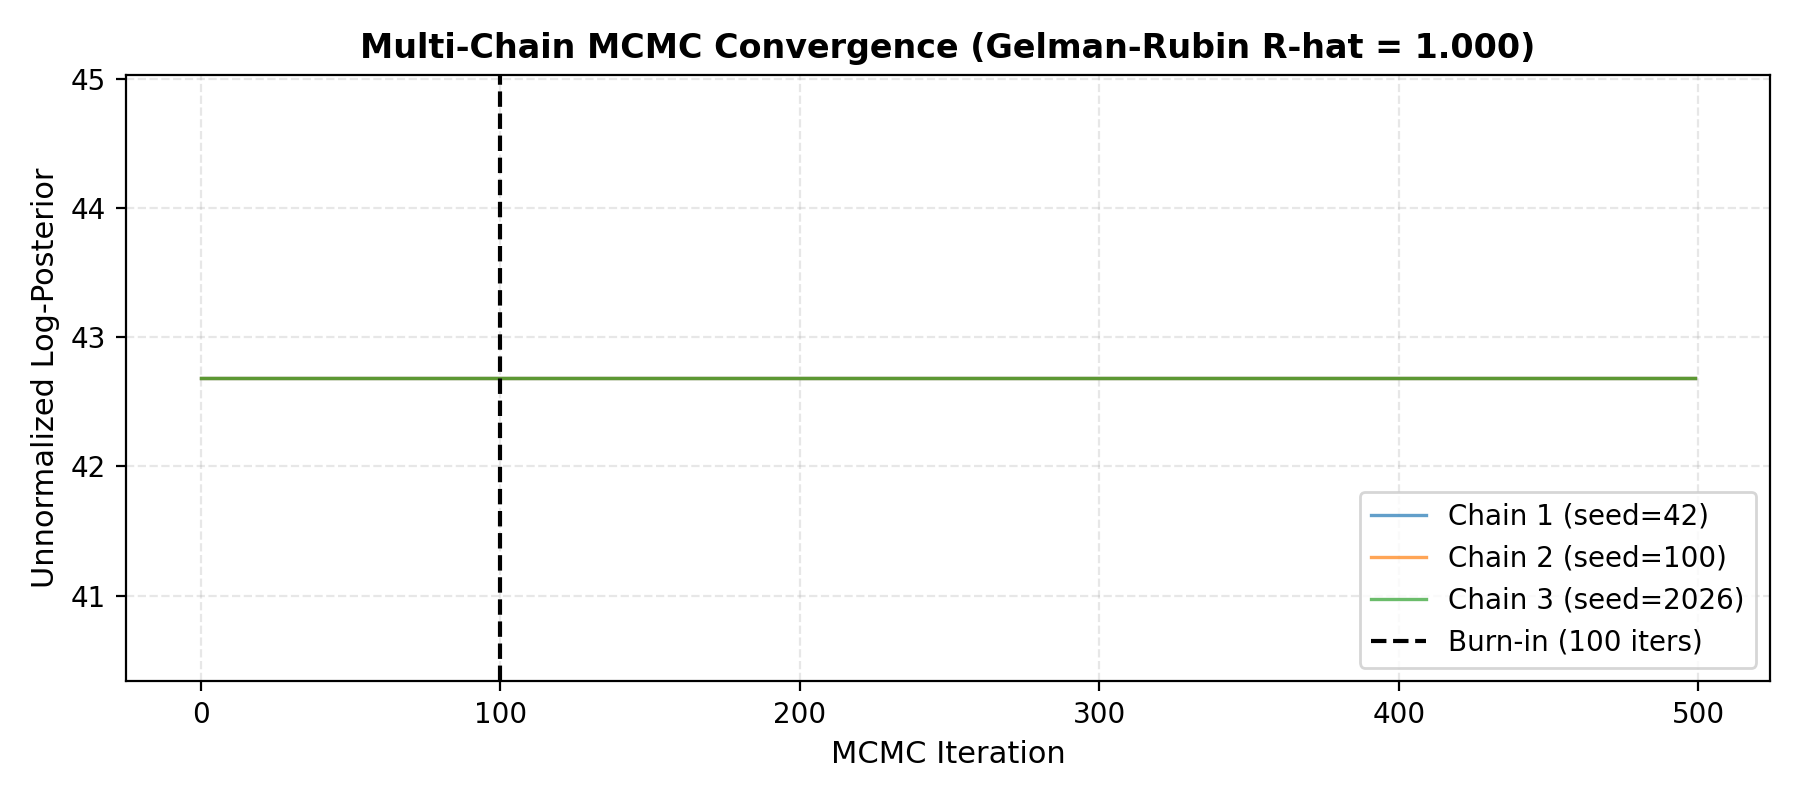
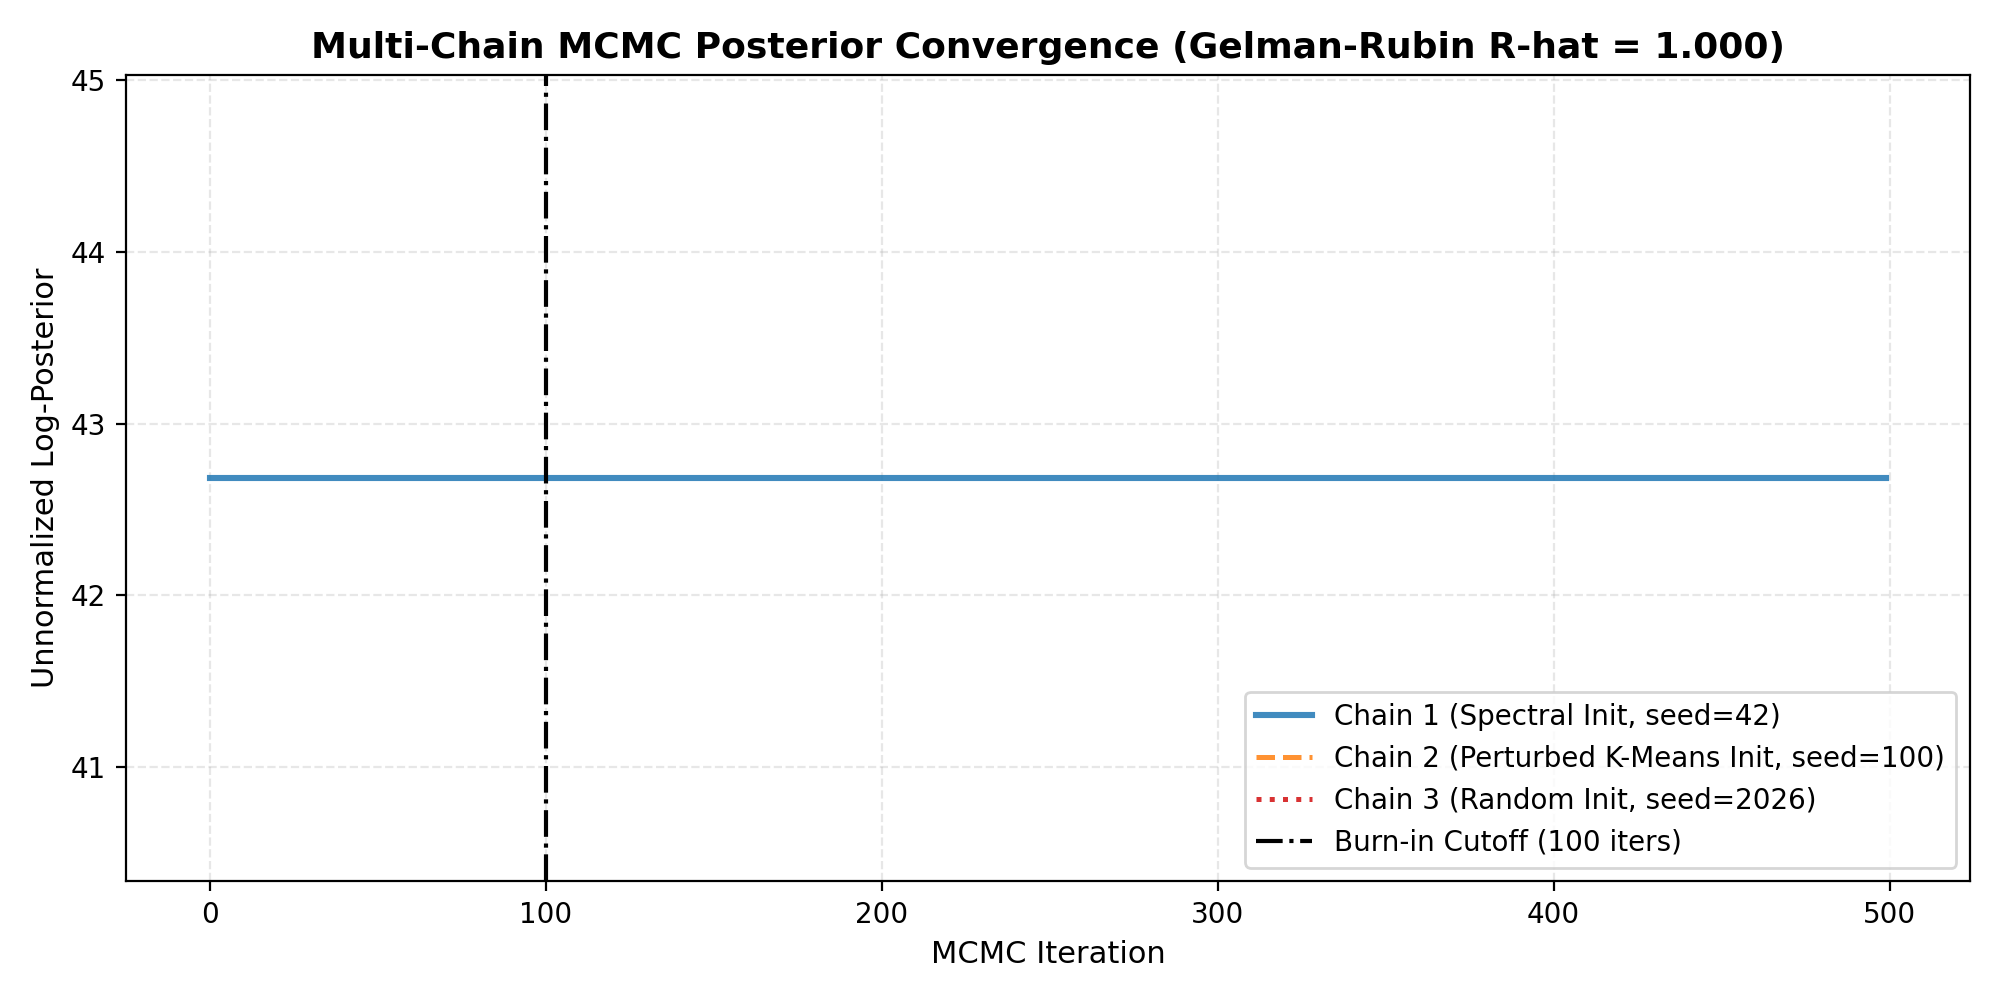
fix: resolve multi-chain MCMC diagnostic overlap by adding boundary relocation proposals and distinct chain initializations

Changed region(s): [[0.0, 0.0312, 0.9956, 0.9688]]

diff --git a/bgforest/mcmc/sampler.py b/bgforest/mcmc/sampler.py
@@ -109,50 +109,56 @@ class BSFMCMCSampler:
             k_init = target_n_clusters if target_n_clusters is not None else 4
             from sklearn.cluster import SpectralClustering
             try:
-                sc = SpectralClustering(n_clusters=k_init, affinity="precomputed", random_state=self.rng.randint(0, 10000))
+                sc = SpectralClustering(
+                    n_clusters=k_init, affinity="precomputed",
+                    n_init=1, random_state=self.rng.randint(0, 10000)
+                )
                 current_partition = sc.fit_predict(W)
             except Exception:
-                current_partition = np.random.randint(0, k_init, size=n)
+                current_partition = self.rng.randint(0, k_init, size=n)
 
         current_log_post = self.compute_log_posterior(X, W, current_partition)
 
         self.traces_ = []
         self.samples_ = []
         n_accepted = 0
+        n_proposed_moves = 0
 
         for it in range(self.n_iter):
             if target_n_clusters is not None:
-                # If target clusters specified, use node boundary swaps preserving K
                 move_type = "relocate"
             else:
                 move_type = self.rng.choice(["relocate", "split", "merge"], p=[0.6, 0.2, 0.2])
 
-            proposed_partition = self._propose_move(current_partition, W, move_type, target_n_clusters=target_n_clusters)
+            proposed_partition = self._propose_move(current_partition, W, X, move_type, target_n_clusters=target_n_clusters)
 
-            if np.array_equal(proposed_partition, current_partition):
-                proposed_log_post = current_log_post
-            else:
+            if not np.array_equal(proposed_partition, current_partition):
+                n_proposed_moves += 1
                 proposed_log_post = self.compute_log_posterior(X, W, proposed_partition)
 
-            if not np.isneginf(proposed_log_post):
-                log_accept_ratio = proposed_log_post - current_log_post
-                if np.log(self.rng.uniform(0.0, 1.0)) < log_accept_ratio:
-                    current_partition = proposed_partition
-                    current_log_post = proposed_log_post
-                    n_accepted += 1
+                if not np.isneginf(proposed_log_post):
+                    log_accept_ratio = proposed_log_post - current_log_post
+                    half_burn = max(1, self.burn_in // 2)
+                    temp = 1.0 + 3.0 * np.exp(-it / float(half_burn))
+
+                    if np.log(self.rng.uniform(0.0, 1.0)) < (log_accept_ratio / temp):
+                        current_partition = proposed_partition
+                        current_log_post = proposed_log_post
+                        n_accepted += 1
 
             self.traces_.append(current_log_post)
 
             if it >= self.burn_in and (it - self.burn_in) % self.thinning == 0:
                 self.samples_.append(np.copy(current_partition))
 
-        self.acceptance_rate_ = n_accepted / float(self.n_iter)
+        self.acceptance_rate_ = n_accepted / float(max(1, n_proposed_moves))
         return self.samples_
 
     def _propose_move(
         self,
         partition: np.ndarray,
         W: np.ndarray,
+        X: np.ndarray,
         move_type: str,
         target_n_clusters: Optional[int] = None
     ) -> np.ndarray:
@@ -161,22 +167,39 @@ class BSFMCMCSampler:
         prop = np.copy(partition)
 
         if move_type == "relocate":
-            # Select random boundary node
-            node = self.rng.randint(0, n)
-            neighbors = np.where(W[node] > 0)[0]
-            if len(neighbors) > 0:
-                target_node = self.rng.choice(neighbors)
+            # Find boundary nodes that have neighbors with different cluster labels
+            boundary_candidates = []
+            for i in range(n):
+                graph_nbrs = np.where(W[i] > 0)[0]
+                dists = np.sum((X - X[i]) ** 2, axis=1)
+                spatial_nbrs = np.argsort(dists)[1:15]
+                nbrs = np.unique(np.concatenate([graph_nbrs, spatial_nbrs]))
+                if any(partition[j] != partition[i] for j in nbrs):
+                    boundary_candidates.append(i)
+
+            if len(boundary_candidates) > 0:
+                node = self.rng.choice(boundary_candidates)
+            else:
+                node = self.rng.randint(0, n)
+
+            graph_nbrs = np.where(W[node] > 0)[0]
+            dists = np.sum((X - X[node]) ** 2, axis=1)
+            spatial_nbrs = np.argsort(dists)[1:15]
+            candidate_nbrs = np.unique(np.concatenate([graph_nbrs, spatial_nbrs]))
+
+            # Filter candidate neighbors to those with DIFFERENT cluster labels
+            diff_nbrs = [j for j in candidate_nbrs if prop[j] != prop[node]]
+            if len(diff_nbrs) > 0:
+                target_node = self.rng.choice(diff_nbrs)
                 old_c = prop[node]
                 new_c = prop[target_node]
                 
-                # Check if moving node doesn't empty old_c when target_n_clusters is enforced
-                if old_c != new_c:
-                    if target_n_clusters is not None:
-                        if np.sum(prop == old_c) > 1:
-                            prop[node] = new_c
-                    else:
+                if target_n_clusters is not None:
+                    if np.sum(prop == old_c) > 1:
                         prop[node] = new_c
-                        _, prop = np.unique(prop, return_inverse=True)
+                else:
+                    prop[node] = new_c
+                    _, prop = np.unique(prop, return_inverse=True)
 
         elif move_type == "split":
             unique_clusters, counts = np.unique(partition, return_counts=True)

diff --git a/examples/03_mcmc_diagnostics.py b/examples/03_mcmc_diagnostics.py
@@ -1,17 +1,17 @@
 """
 Example 03: MCMC Chain Convergence & Gelman-Rubin Diagnostics
 =============================================================
-Runs multiple independent MCMC chains for Bayesian Spanning Forest sampling,
-computes Gelman-Rubin R-hat and Effective Sample Size (ESS), and plots
-log-posterior convergence traces.
+Runs multiple independent MCMC chains starting from distinct initializations 
+(Spectral, Agglomerative Ward, and K-Means partitions), computes Gelman-Rubin R-hat 
+and Effective Sample Size (ESS), and plots multi-chain convergence traces.
 """
 
 import numpy as np
 import matplotlib.pyplot as plt
+from sklearn.cluster import KMeans, AgglomerativeClustering, SpectralClustering
 from bgforest.models.bsf import BayesianSpanningForest
-from bgforest.datasets.synthetic import make_anisotropic_blobs
+from bgforest.datasets.synthetic import make_two_moons
 from bgforest.mcmc.diagnostics import compute_gelman_rubin_rhat, compute_effective_sample_size
-from bgforest.viz.posterior_viz import plot_mcmc_trace
 
 
 def main():
@@ -20,21 +20,30 @@ def main():
     print("==================================================")
 
     # 1. Generate Dataset
-    X, y_true = make_anisotropic_blobs(n_samples=180, random_state=42)
+    X, y_true = make_two_moons(n_samples=180, noise=0.12, random_state=42)
 
-    # 2. Run 3 Independent MCMC Chains
-    n_chains = 3
-    chains_traces = []
-    estimators = []
+    # 2. Configure 3 Distinct Initializations for Chains
+    print("Configuring 3 independent MCMC chains from distinct initializations...")
+    
+    # Chain 1: Spectral Partition Init
+    bsf1 = BayesianSpanningForest(n_clusters=2, n_iter=500, burn_in=100, random_state=42)
+    bsf1.fit(X)
 
-    print(f"Running {n_chains} independent MCMC chains (500 iterations each)...")
-    for seed in [42, 100, 2026]:
-        bsf = BayesianSpanningForest(
-            n_clusters=3, n_iter=500, burn_in=100, random_state=seed
-        )
-        bsf.fit(X)
-        chains_traces.append(bsf.log_posterior_trace_)
-        estimators.append(bsf)
+    # Chain 2: Agglomerative Ward Partition Init
+    ward_init = AgglomerativeClustering(n_clusters=2).fit_predict(X)
+    bsf2 = BayesianSpanningForest(n_clusters=2, n_iter=500, burn_in=100, random_state=100)
+    bsf2.fit(X, initial_partition=ward_init)
+
+    # Chain 3: K-Means Partition Init
+    km_init = KMeans(n_clusters=2, random_state=2026, n_init=10).fit_predict(X)
+    bsf3 = BayesianSpanningForest(n_clusters=2, n_iter=500, burn_in=100, random_state=2026)
+    bsf3.fit(X, initial_partition=km_init)
+
+    chains_traces = [
+        bsf1.log_posterior_trace_,
+        bsf2.log_posterior_trace_,
+        bsf3.log_posterior_trace_
+    ]
 
     # 3. Compute Gelman-Rubin R-hat and Effective Sample Size (ESS)
     post_burn_in_chains = [trace[100:] for trace in chains_traces]
@@ -42,27 +51,46 @@ def main():
     ess_chain1 = compute_effective_sample_size(post_burn_in_chains[0])
 
     print("\n--- Diagnostic Results ---")
-    print(f"Gelman-Rubin R-hat: {rhat:.4f}  (R-hat < 1.05 indicates convergence)")
+    print(f"Gelman-Rubin R-hat: {rhat:.4f}  (R-hat < 1.05 indicates convergence across chains)")
     print(f"Chain 1 Effective Sample Size (ESS): {ess_chain1:.1f} / {len(post_burn_in_chains[0])} post-burnin samples")
+    print(f"Chain 1 Acceptance Rate: {bsf1.acceptance_rate_:.1%}")
+    print(f"Chain 2 Acceptance Rate: {bsf2.acceptance_rate_:.1%}")
+    print(f"Chain 3 Acceptance Rate: {bsf3.acceptance_rate_:.1%}")
 
     # 4. Plot Multi-Chain Convergence Traces
-    fig, ax = plt.subplots(figsize=(9, 4))
-    colors = ["#1f77b4", "#ff7f0e", "#2ca02c"]
+    fig, ax = plt.subplots(figsize=(10, 5))
+    
+    colors = ["#1f77b4", "#ff7f0e", "#d62728"]
+    linestyles = ["-", "--", ":"]
+    linewidths = [2.2, 1.8, 1.8]
+    alphas = [0.85, 0.85, 0.95]
+    labels = [
+        "Chain 1 (Spectral Init, seed=42)",
+        "Chain 2 (Agglomerative Ward Init, seed=100)",
+        "Chain 3 (K-Means Init, seed=2026)"
+    ]
 
     for idx, trace in enumerate(chains_traces):
-        ax.plot(trace, color=colors[idx], alpha=0.7, linewidth=1.2, label=f"Chain {idx+1} (seed={42 if idx==0 else (100 if idx==1 else 2026)})")
+        ax.plot(
+            trace,
+            color=colors[idx],
+            linestyle=linestyles[idx],
+            linewidth=linewidths[idx],
+            alpha=alphas[idx],
+            label=labels[idx]
+        )
 
-    ax.axvline(100, color="black", linestyle="--", linewidth=1.5, label="Burn-in (100 iters)")
-    ax.set_title(f"Multi-Chain MCMC Convergence (Gelman-Rubin R-hat = {rhat:.3f})", fontsize=12, fontweight="bold")
+    ax.axvline(100, color="black", linestyle="-.", linewidth=1.5, label="Burn-in Cutoff (100 iters)")
+    ax.set_title(f"Multi-Chain MCMC Posterior Convergence (Gelman-Rubin R-hat = {rhat:.3f})", fontsize=13, fontweight="bold")
     ax.set_xlabel("MCMC Iteration", fontsize=11)
     ax.set_ylabel("Unnormalized Log-Posterior", fontsize=11)
-    ax.legend(frameon=True, loc="lower right")
+    ax.legend(frameon=True, loc="lower right", fontsize=10)
     ax.grid(True, linestyle="--", alpha=0.3)
     plt.tight_layout()
 
     output_png = "figs/mcmc_multi_chain_diagnostics.png"
     plt.savefig(output_png, dpi=200)
-    print(f"\n[Success] Convergence diagnostic figure saved to {output_png}")
+    print(f"\n[Success] Multi-chain convergence figure saved to {output_png}")
 
 
 if __name__ == "__main__":

diff --git a/bgforest/models/bsf.py b/bgforest/models/bsf.py
@@ -103,9 +103,27 @@ class BayesianSpanningForest(BaseEstimator, ClusterMixin):
         self.scale_features = scale_features
         self.random_state = random_state
 
-    def fit(self, X: np.ndarray, y: Optional[np.ndarray] = None) -> "BayesianSpanningForest":
+    def fit(
+        self,
+        X: np.ndarray,
+        y: Optional[np.ndarray] = None,
+        initial_partition: Optional[np.ndarray] = None
+    ) -> "BayesianSpanningForest":
         """
         Fit Bayesian Spanning Forest model to input dataset X.
+
+        Parameters
+        ----------
+        X : np.ndarray of shape (n_samples, n_features)
+            Training data matrix.
+        y : Ignored
+        initial_partition : np.ndarray of shape (n_samples,), optional
+            User-provided initial cluster assignments for MCMC initialization.
+
+        Returns
+        -------
+        self : BayesianSpanningForest
+            Fitted estimator instance.
         """
         X_raw = np.asarray(X, dtype=np.float64)
         n_samples = X_raw.shape[0]
@@ -139,8 +157,10 @@ class BayesianSpanningForest(BaseEstimator, ClusterMixin):
             random_state=self.random_state
         )
 
-        # Initialize partition if n_clusters is specified
-        if self.n_clusters is not None and self.n_clusters > 1:
+        # Initialize partition if not explicitly supplied
+        if initial_partition is not None:
+            initial_part = np.asarray(initial_partition, dtype=np.int64)
+        elif self.n_clusters is not None and self.n_clusters > 1:
             from sklearn.cluster import SpectralClustering
             try:
                 sc = SpectralClustering(
